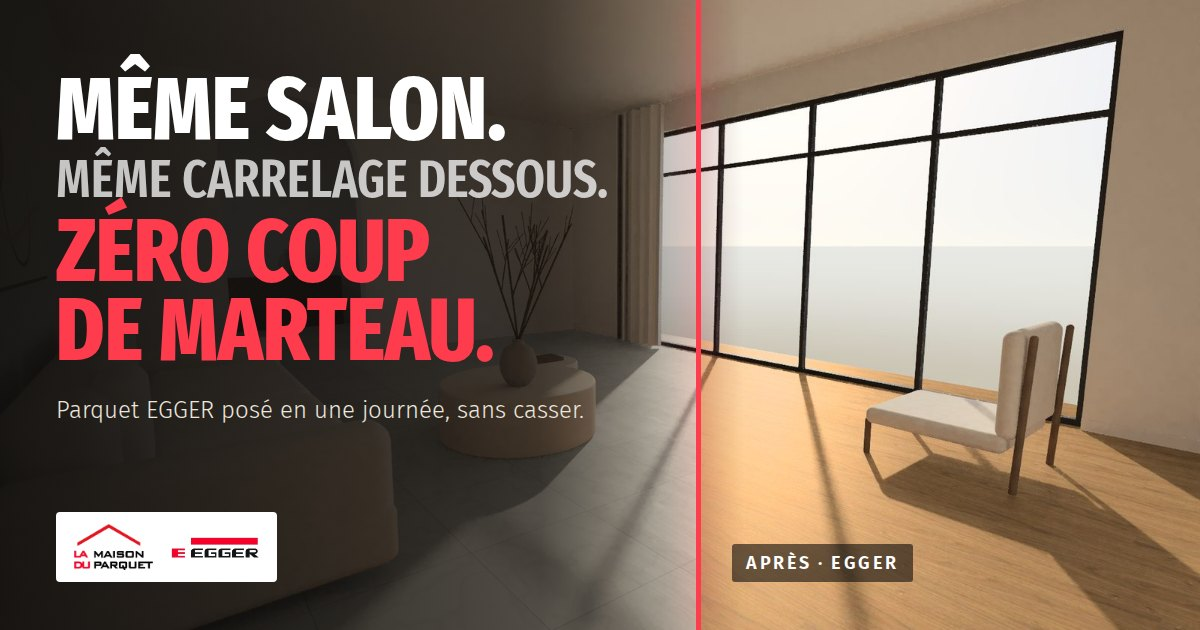
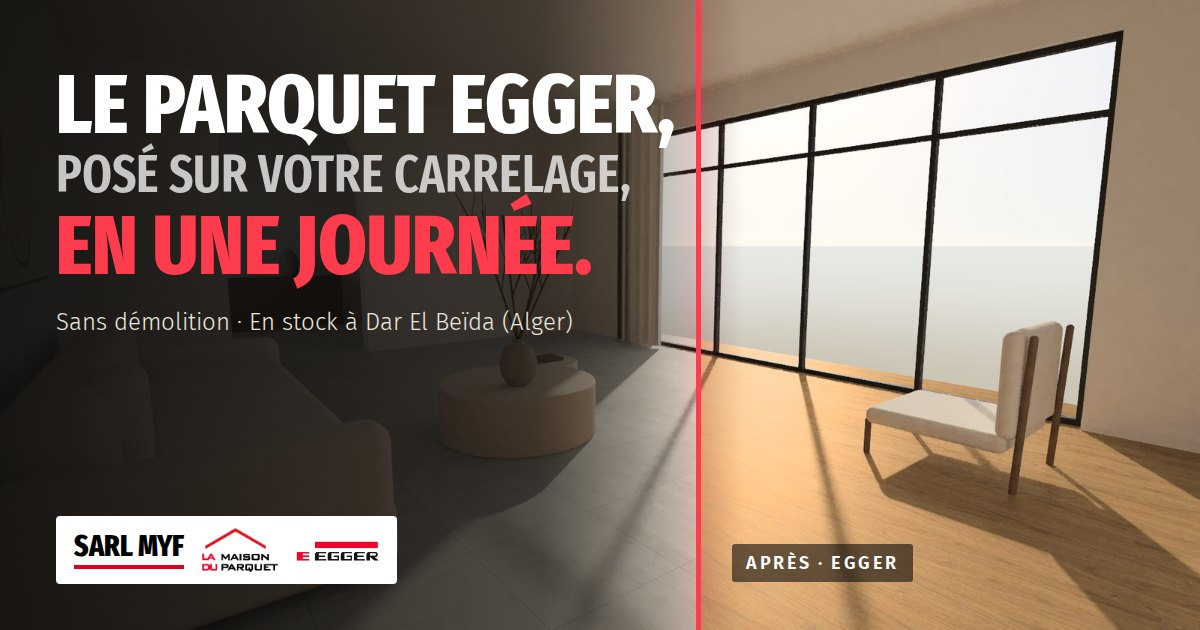
Site : nouveau titre d'accueil et anatomie 3D interactive d'une lame EGGER
- Titre « Le parquet EGGER, posé sur votre carrelage, en une journée. » sur 3 lignes,
  curseur avant/après au repos à 58 % pour ne plus passer sur le texte
- Section #lame : lame éclatée en 4 couches (CSS 3D, rotation au doigt/souris),
  mise en avant de chaque couche, choix du décor
- Image og régénérée, préchargement de l'image du hero

Claude-Session: https://claude.ai/code/session_01XoeDEVkNFXq4oExWHbkpus

Changed region(s): [[0.0308, 0.0905, 0.5858, 0.573], [0.0617, 0.8143, 0.3392, 0.9349], [0.0308, 0.6333, 0.4933, 0.6635]]

diff --git a/site/index.html b/site/index.html
@@ -12,12 +12,12 @@
 <meta property="og:type" content="website">
 <meta property="og:locale" content="fr_DZ">
 <meta property="og:site_name" content="La Maison du Parquet">
-<meta property="og:title" content="Carrelage froid ? Parquet EGGER posé en une journée, sans casser">
+<meta property="og:title" content="Le parquet EGGER, posé sur votre carrelage, en une journée">
 <meta property="og:description" content="Sols EGGER en stock à Dar El Beïda (Alger). Visite de 30 minutes, devis sur place, livraison partout en Algérie.">
 <meta property="og:image" content="https://www.lamaisonduparquet.dz/img/og.jpg">
 <meta property="og:image:width" content="1200">
 <meta property="og:image:height" content="630">
-<meta property="og:image:alt" content="Même salon, avant en carrelage et après en parquet EGGER">
+<meta property="og:image:alt" content="Un salon avant en carrelage et après en parquet EGGER">
 <meta property="og:url" content="https://www.lamaisonduparquet.dz/">
 <meta name="twitter:card" content="summary_large_image">
 <link rel="icon" href="img/icon-192.png" sizes="192x192">
@@ -27,6 +27,7 @@
 <link rel="preload" as="font" type="font/woff2" href="assets/fonts/fira-sans-300.woff2" crossorigin>
 <link rel="stylesheet" href="assets/css/fonts.css">
 <link rel="preload" as="image" href="img/ba-tile.webp" type="image/webp">
+<link rel="preload" as="image" href="img/ba-el2863.webp" type="image/webp">
 <link rel="stylesheet" href="assets/css/style.css">
 <script type="application/ld+json">{"@context":"https://schema.org","@graph":[{"@type":"HomeAndConstructionBusiness","@id":"https://www.lamaisonduparquet.dz/#business","name":"La Maison du Parquet","legalName":"SARL MYF","description":"SARL MYF · La Maison du Parquet. Sols stratifiés EGGER en stock, posés directement sur carrelage. Showroom à Dar El Beïda (Alger), sur rendez-vous.","url":"https://www.lamaisonduparquet.dz/","telephone":"+213549506857","image":"https://www.lamaisonduparquet.dz/img/og.jpg","logo":"https://www.lamaisonduparquet.dz/img/logo.png","hasMap":"https://www.google.com/maps/search/?api=1&query=La%20Maison%20du%20Parquet%20EGGER%20Dar%20El%20Beida","areaServed":{"@type":"Country","name":"Algérie"},"address":{"@type":"PostalAddress","addressLocality":"Dar El Beïda","addressRegion":"Alger","addressCountry":"DZ"},"contactPoint":[{"@type":"ContactPoint","telephone":"+213549506857","contactType":"customer service","availableLanguage":"French"},{"@type":"ContactPoint","telephone":"+213794709323","contactType":"customer service","availableLanguage":"French"}],"openingHoursSpecification":[{"@type":"OpeningHoursSpecification","dayOfWeek":["Saturday","Sunday","Monday","Tuesday","Wednesday","Thursday"],"opens":"08:00","closes":"16:00"}],"brand":{"@type":"Brand","name":"EGGER"}},{"@type":"ItemList","name":"Parquets stratifiés EGGER en stock","itemListElement":[{"@type":"ListItem","position":1,"item":{"@type":"Product","name":"Parquet stratifié EGGER Chêne Asgil miel EL2863","sku":"EL2863","brand":{"@type":"Brand","name":"EGGER"},"description":"8 mm, classe d'usage 32. Un chêne doré et chaleureux, le plus accueillant de la collection.","image":"https://www.lamaisonduparquet.dz/img/sw-el2863.jpg"}},{"@type":"ListItem","position":2,"item":{"@type":"Product","name":"Parquet stratifié EGGER Chêne Achensee EL1061","sku":"EL1061","brand":{"@type":"Brand","name":"EGGER"},"description":"7 mm, classe d'usage 31. Un chêne clair et naturel qui agrandit visuellement la pièce.","image":"https://www.lamaisonduparquet.dz/img/sw-el1061.jpg"}},{"@type":"ListItem","position":3,"item":{"@type":"Product","name":"Parquet stratifié EGGER Chêne du Nord naturel EL2970","sku":"EL2970","brand":{"@type":"Brand","name":"EGGER"},"description":"8 mm, classe d'usage 32. Des nœuds, des veines : le vrai caractère du bois.","image":"https://www.lamaisonduparquet.dz/img/sw-el2970.jpg"}},{"@type":"ListItem","position":4,"item":{"@type":"Product","name":"Parquet stratifié EGGER Chêne Melba beige EL2416","sku":"EL2416","brand":{"@type":"Brand","name":"EGGER"},"description":"8 mm, classe d'usage 32. Un beige doux et lumineux, le plus facile à marier. Version Aqua, résistante à l'eau.","image":"https://www.lamaisonduparquet.dz/img/sw-el2416.jpg"}},{"@type":"ListItem","position":5,"item":{"@type":"Product","name":"Parquet stratifié EGGER Chêne Bardolino EL1055","sku":"EL1055","brand":{"@type":"Brand","name":"EGGER"},"description":"8 mm, classe d'usage 32. Ni trop clair, ni trop foncé : le chêne intemporel.","image":"https://www.lamaisonduparquet.dz/img/sw-el1055.jpg"}}]},{"@type":"FAQPage","mainEntity":[{"@type":"Question","name":"Peut-on vraiment le poser sur du carrelage ?","acceptedAnswer":{"@type":"Answer","text":"Oui, si le carrelage est plan et bien fixé. Les lames se clipsent sur une sous-couche, sans colle et sans casser l'existant. Nous vérifions avec vous l'état de votre sol pendant la visite."}},{"@type":"Question","name":"Combien de temps dure la pose ?","acceptedAnswer":{"@type":"Answer","text":"Comptez une journée pour une pièce. Il n'y a pas de démolition ni de temps de séchage : la pièce est utilisable dès la fin de la pose."}},{"@type":"Question","name":"Pourquoi une visite sur rendez-vous ?","acceptedAnswer":{"@type":"Answer","text":"Pour qu'un conseiller soit disponible uniquement pour vous pendant 30 minutes : présentation des décors en stock, conseils selon vos pièces et devis établi sur place, sans attente."}},{"@type":"Question","name":"Comment obtenir un devis ?","acceptedAnswer":{"@type":"Answer","text":"Le devis est établi pendant la visite, au carton près : il dépend de vos pièces, du décor choisi, de la sous-couche et de la livraison. Utilisez le calculateur pour préparer votre métrage, ou apportez vos mesures."}},{"@type":"Question","name":"Où se trouve le showroom ?","acceptedAnswer":{"@type":"Answer","text":"À Dar El Beïda (Alger). Tapez « La Maison du Parquet EGGER Dar El Beïda » dans Google Maps ou utilisez le lien Itinéraire plus bas. Nous vous recevons du samedi au jeudi, de 8h00 à 16h00, sur rendez-vous."}},{"@type":"Question","name":"Et dans la cuisine ou la salle de bain ?","acceptedAnswer":{"@type":"Answer","text":"Dans une cuisine ouverte ou une entrée, choisissez le Chêne Melba beige (EL2416) en version Aqua : il résiste à l'eau pendant 24 heures. En salle de bain, où l'eau stagne, nous déconseillons le stratifié."}},{"@type":"Question","name":"Que signifient les classes 31 et 32 ?","acceptedAnswer":{"@type":"Answer","text":"C'est la résistance à l'usage selon la norme européenne. Classe 31 : usage domestique et commercial léger, parfait en chambre. Classe 32 : usage domestique intense et commercial normal (bureaux, boutiques), pour le salon, l'entrée ou la cuisine."}},{"@type":"Question","name":"Où sont fabriqués les sols EGGER ?","acceptedAnswer":{"@type":"Answer","text":"Dans les usines européennes du groupe EGGER. Les cartons en stock au showroom portent la mention Made in Germany. Les sols NatureSense sont composés en majorité de bois, sans PVC, et portent l'Écolabel européen."}},{"@type":"Question","name":"Avez-vous d'autres modèles EGGER ?","acceptedAnswer":{"@type":"Answer","text":"Oui, la gamme EGGER est large. Les décors présentés ici sont disponibles immédiatement, en stock. Venez découvrir le reste de la gamme au showroom, nous vous indiquons les disponibilités sur place."}},{"@type":"Question","name":"Les couleurs des images sont-elles fidèles ?","acceptedAnswer":{"@type":"Answer","text":"Nos rendus reprennent les visuels officiels EGGER. Mais la teinte d'un sol change avec la lumière de la pièce et le réglage de l'écran : venez voir les lames en vrai, à la lumière du jour, au showroom."}},{"@type":"Question","name":"Livrez-vous hors d'Alger ?","acceptedAnswer":{"@type":"Answer","text":"Oui, nous livrons partout en Algérie. Le délai et le coût dépendent de votre wilaya : ils figurent sur votre devis."}}]}]}</script>
 </head>
@@ -60,8 +61,8 @@
  <div class="hero-shade" aria-hidden="true"></div>
  <div class="hero-txt"><div class="wrap">
   <p class="eyebrow"><span class="dot-live" aria-hidden="true"></span>Représentant EGGER en Algérie · en stock à Dar El Beïda</p>
-  <h1 id="h1"><span class="l1">Même salon.</span><span class="l2">Même carrelage dessous.</span><span class="l3">Zéro coup de marteau.</span></h1>
-  <p class="sub">Le parquet EGGER se clipse directement sur votre carrelage. Une pièce posée en une journée, sans gravats, sans poussière. <b>Glissez le curseur pour voir.</b></p>
+  <h1 id="h1"><span class="l1">Le parquet EGGER,</span><span class="l2">posé sur votre carrelage,</span><span class="l3">en une journée.</span></h1>
+  <p class="sub">Les lames se clipsent sur une sous-couche, directement sur votre sol actuel&nbsp;: pas de démolition, pas de gravats, pas de poussière. <b>Glissez le curseur pour voir le résultat.</b></p>
   <div class="cta">
    <a class="btn b-red lg" href="#reserver"><svg viewBox="0 0 24 24" aria-hidden="true" fill="none" stroke="currentColor" stroke-width="1.8" stroke-linecap="round"><rect x="3.5" y="5" width="17" height="15.5" rx="2.5"/><path d="M3.5 10h17M8 3v4M16 3v4"/><path d="M9 14.8l2 2 4-4"/></svg>Réserver ma visite · 30 min</a>
    <a class="btn b-glass lg" href="#calcul">Calculer mes cartons</a>
@@ -123,6 +124,26 @@
    <figcaption><b>Un verre renversé ?<br>L'eau reste en surface.</b><span>Version Aqua (Chêne Melba beige EL2416, système Aqua CLIC it!) : 24 heures de résistance à l'eau. Pour la cuisine ouverte et l'entrée.</span><a class="btn b-red" href="#visualiseur" data-show-viz="cuisine:EL2416">Voir le Melba beige en cuisine</a></figcaption></figure>
   <figure class="fcard rv"><picture><source type="image/webp" srcset="img/egger-el1055-720.webp 720w, img/egger-el1055.webp 1080w" sizes="(max-width:860px) 100vw, 50vw"><img src="img/egger-el1055.jpg" alt="Salon avec parquet EGGER Chêne Bardolino EL1055" width="1080" height="1140" loading="lazy" decoding="async"></picture><span class="ill">Photo EGGER · Chêne Bardolino EL1055</span>
    <figcaption><b>Fini le carrelage<br>glacé au réveil.</b><span>Le parquet est plus chaud au toucher que le carrelage, et il reste compatible avec le chauffage au sol.</span><a class="btn b-red" href="#reserver">Le sentir au showroom</a></figcaption></figure>
+ </div>
+</div></section>
+
+<!-- ============ ANATOMIE 3D ============ -->
+<section class="anat" id="lame" aria-labelledby="anatH"><div class="wrap anat-grid">
+ <div class="anat-txt">
+  <p class="lab">Anatomie d'une lame EGGER</p>
+  <h2 id="anatH">Quatre couches, <em>un seul clic.</em></h2>
+  <p class="lede">Faites pivoter la lame, survolez chaque couche : voici ce qui se trouve sous vos pieds avec un sol stratifié EGGER.</p>
+  <ol class="layers" id="layers">
+   <li><button type="button" data-l="1"><b>Couche de protection</b><span>Surface résistante à l'usure, aux rayures et aux UV. Classe d'usage 31 ou 32 selon le décor.</span></button></li>
+   <li><button type="button" data-l="2"><b>Décor EGGER</b><span>Le dessin du chêne, avec une structure de surface qui suit les pores du bois.</span></button></li>
+   <li><button type="button" data-l="3"><b>Panneau HDF+</b><span>Support haute densité de 7 ou 8 mm, usiné pour le système d'assemblage CLIC it!.</span></button></li>
+   <li><button type="button" data-l="4"><b>Contre-balancement</b><span>Couche de stabilisation sous la lame, qui l'empêche de se déformer.</span></button></li>
+  </ol>
+  <div class="anat-dec" id="anatDec" role="radiogroup" aria-label="Décor de la lame en 3D"></div>
+ </div>
+ <div class="plank3d" id="plank3d" aria-hidden="true">
+  <div class="scene" id="scene"><div class="stack" id="stack" data-dec="el2863"><div class="ly ly4"><i class="t"></i><i class="f"></i><i class="s"></i></div><div class="ly ly3"><i class="t"></i><i class="f"></i><i class="s"></i></div><div class="ly ly2"><i class="t"></i><i class="f"></i><i class="s"></i></div><div class="ly ly1"><i class="t"></i><i class="f"></i><i class="s"></i></div></div></div>
+  <p class="anat-hint">Glissez pour faire pivoter</p>
  </div>
 </div></section>
 

diff --git a/site/assets/css/style.css b/site/assets/css/style.css
@@ -82,13 +82,14 @@ s{text-decoration-color:var(--red);text-decoration-thickness:.09em}
 .ba .knob svg{width:24px;height:24px}
 .ba .tag{position:absolute;top:18px;font-size:.74rem;letter-spacing:.14em;text-transform:uppercase;font-weight:600;color:#fff;background:rgba(15,14,12,.55);backdrop-filter:blur(6px);padding:7px 12px;border-radius:3px;z-index:2}
 .ba .t-l{left:18px}.ba .t-r{right:18px}
-.hero-ba{--pos:45%;height:clamp(560px,86vh,880px)}
+.hero-ba{--pos:58%;height:clamp(560px,86vh,880px)}
 .hero-shade{position:absolute;inset:0;background:linear-gradient(90deg,rgba(12,11,10,.82) 0%,rgba(12,11,10,.55) 38%,rgba(12,11,10,0) 64%),linear-gradient(0deg,rgba(12,11,10,.55),rgba(12,11,10,0) 45%);pointer-events:none;z-index:1}
 .hero-txt{position:absolute;inset:auto 0 0 0;z-index:4;pointer-events:none;padding-block:0 clamp(28px,5vw,56px)}
 .hero-txt .cta,.hero-txt .hero-dec{pointer-events:auto}
 .eyebrow{display:inline-flex;align-items:center;gap:10px;font-size:.78rem;letter-spacing:.16em;text-transform:uppercase;font-weight:500;color:#f1ece5;margin:0 0 18px}
 .dot-live{flex:none;width:9px;height:9px;border-radius:50%;background:#2fbf71;box-shadow:0 0 0 5px rgba(47,191,113,.22)}
-.hero h1{font-family:var(--cond);font-weight:800;text-transform:uppercase;letter-spacing:-.005em;line-height:.9;font-size:clamp(2.8rem,6vw,5.8rem);max-width:13ch}
+.hero h1{font-family:var(--cond);font-weight:800;text-transform:uppercase;letter-spacing:-.005em;line-height:.9;font-size:clamp(2.6rem,5.2vw,5.4rem);max-width:none}
+@media (min-width:861px){.hero h1 span{white-space:nowrap}}
 .hero h1 span{display:block}
 .hero h1 .l2{font-weight:600;color:rgba(255,255,255,.72);font-size:.62em;line-height:1.05;margin-block:.12em .06em;letter-spacing:.005em}
 .hero h1 .l3{color:var(--red-lt)}
@@ -467,3 +468,63 @@ footer .wrap{display:flex;justify-content:space-between;align-items:center;gap:2
 @media (max-width:600px){.f-brand{gap:12px}.f-brand .myf{font-size:1.7rem}.f-brand img[width="799"]{height:40px}.f-brand img[width="321"]{height:17px}}
 .calc>*,.calc-box>*,.cf-row{min-width:0}.calc-box select{min-width:0;text-overflow:ellipsis}
 .vs-img img{object-position:50% 80%}.fcard img{object-position:50% 70%}
+
+/* ===== Anatomie d'une lame : rendu 3D en CSS pur (aucune librairie) =====
+   Repère : la lame occupe x∈[0,w], y∈[0,d], z∈[0,t] ; chaque couche est un pavé (dessus, face avant, chant). */
+.anat{padding-block:clamp(72px,10vw,130px);background:var(--paper);border-block:1px solid var(--line);overflow:hidden}
+.anat-grid{display:grid;grid-template-columns:minmax(0,.9fr) minmax(0,1.1fr);gap:clamp(28px,5vw,72px);align-items:center}
+.anat-grid>*{min-width:0}
+.anat .lede{margin-top:16px}
+.layers{list-style:none;counter-reset:ly;margin:28px 0 0;padding:0;display:grid;gap:2px;border-top:1px solid var(--line)}
+.layers li{counter-increment:ly}
+.layers button{width:100%;text-align:start;display:grid;grid-template-columns:34px 1fr;gap:2px 12px;padding:14px 10px 14px 0;background:transparent;border:0;border-bottom:1px solid var(--line);cursor:pointer;color:var(--ink);transition:background .2s}
+.layers button:before{content:counter(ly,decimal-leading-zero);grid-row:span 2;font-family:var(--cond);font-weight:800;font-size:1.3rem;color:var(--red);line-height:1.2}
+.layers b{font-weight:500}
+.layers span{color:var(--mut);font-size:.9rem;line-height:1.5}
+.layers button:hover,.layers button.on{background:var(--bg)}
+.anat-dec{display:flex;flex-wrap:wrap;gap:8px;margin-top:22px}
+.anat-dec button{width:38px;height:38px;border-radius:50%;border:2px solid var(--bg);box-shadow:0 0 0 1px var(--line);background-size:cover;background-position:center;cursor:pointer;padding:0}
+.anat-dec button[aria-checked="true"]{box-shadow:0 0 0 2px var(--red)}
+
+.plank3d{position:relative;height:clamp(340px,42vw,520px);display:grid;place-items:center;perspective:1600px;touch-action:pan-y;cursor:grab;user-select:none;-webkit-user-select:none}
+.plank3d:active{cursor:grabbing}
+.scene{--rx:58deg;--rz:-32deg;transform-style:preserve-3d;transform:rotateX(var(--rx)) rotateZ(var(--rz));transition:transform .6s cubic-bezier(.2,.8,.2,1)}
+.plank3d.drag .scene{transition:none}
+.stack{--w:440px;--d:150px;--gap:0px;position:relative;width:var(--w);height:var(--d);transform-style:preserve-3d;transform:translate3d(calc(var(--w) * -.04),0,-60px)}
+.plank3d.open .stack{--gap:52px}
+.ly{position:absolute;inset:0;transform-style:preserve-3d;transition:transform 1.1s cubic-bezier(.2,.8,.2,1),opacity .35s}
+.ly i{position:absolute;display:block}
+.ly .t{inset:0;transform:translateZ(var(--t))}
+.ly .f{left:0;top:var(--d);width:var(--w);height:var(--t);transform-origin:top;transform:rotateX(90deg)}
+.ly .s{left:var(--w);top:0;width:var(--t);height:var(--d);transform-origin:left;transform:rotateY(-90deg)}
+/* empilement : z de base (somme des épaisseurs) + écart d'éclatement */
+.ly4{--t:6px;transform:translateZ(0)}
+.ly3{--t:40px;transform:translateZ(calc(6px + var(--gap)))}
+.ly2{--t:4px;transform:translateZ(calc(46px + var(--gap) * 2))}
+.ly1{--t:4px;transform:translateZ(calc(50px + var(--gap) * 3))}
+/* 4 · contre-balancement */
+.ly4 .t{background:#3b342d}.ly4 .f{background:#2a241f}.ly4 .s{background:#211c18}
+/* 3 · HDF+ : fibres compressées, profil CLIC sur le chant */
+.ly3 .t{background:#b48a5c repeating-linear-gradient(90deg,rgba(0,0,0,.05) 0 2px,transparent 2px 7px)}
+.ly3 .f{background:#9a7247 repeating-linear-gradient(0deg,rgba(255,255,255,.06) 0 1px,transparent 1px 4px)}
+.ly3 .s{background:#83603b;clip-path:polygon(0 0,100% 0,100% 38%,62% 38%,62% 62%,100% 62%,100% 100%,0 100%)}
+/* 2 · décor (texture réelle EGGER) */
+.ly2 .t{background-size:cover;background-position:center}
+.stack[data-dec="el2863"] .ly2 .t{background-image:url(../../img/sw-el2863.webp)}
+.stack[data-dec="el1061"] .ly2 .t{background-image:url(../../img/sw-el1061.webp)}
+.stack[data-dec="el2970"] .ly2 .t{background-image:url(../../img/sw-el2970.webp)}
+.stack[data-dec="el2416"] .ly2 .t{background-image:url(../../img/sw-el2416.webp)}
+.stack[data-dec="el1055"] .ly2 .t{background-image:url(../../img/sw-el1055.webp)}
+.ly2 .f{background:#7d5734}.ly2 .s{background:#6b4a2c}
+/* 1 · protection transparente avec reflet */
+.ly1 .t{background:linear-gradient(115deg,rgba(255,255,255,.08) 20%,rgba(255,255,255,.55) 42%,rgba(255,255,255,.08) 58%);box-shadow:inset 0 0 0 1px rgba(255,255,255,.7)}
+.ly1 .f,.ly1 .s{background:rgba(255,255,255,.6)}
+/* ombre portée au sol */
+.stack:before{content:"";position:absolute;inset:-6% -4%;background:radial-gradient(closest-side,rgba(20,15,10,.35),transparent);transform:translateZ(-2px);filter:blur(10px)}
+/* mise en avant d'une couche */
+.stack[data-hl] .ly{opacity:.28}
+.stack[data-hl="1"] .ly1,.stack[data-hl="2"] .ly2,.stack[data-hl="3"] .ly3,.stack[data-hl="4"] .ly4{opacity:1}
+.anat-hint{position:absolute;bottom:0;left:50%;transform:translateX(-50%);margin:0;font-size:.72rem;letter-spacing:.14em;text-transform:uppercase;color:var(--mut);white-space:nowrap}
+@media (max-width:900px){.anat-grid{grid-template-columns:1fr}.plank3d{order:-1;height:340px}.stack{--w:300px;--d:104px}}
+@media (max-width:400px){.plank3d{height:300px}.stack{--w:250px;--d:88px}}
+@media (prefers-reduced-motion:reduce){.ly,.scene{transition:none}}

diff --git a/site/assets/js/ui/plank.js b/site/assets/js/ui/plank.js
@@ -1,0 +1,54 @@
+/* Anatomie 3D d'une lame : éclatement au défilement, rotation au doigt / à la souris / au clavier,
+   mise en avant d'une couche, choix du décor. Tout passe par des variables CSS (compatible CSP). */
+import { $, $$, html, img, CALM, track } from "./dom.js";
+import { short } from "../core/format.js";
+
+const clamp = (v, a, b) => Math.max(a, Math.min(b, v));
+
+export function initPlank({ DECORS }) {
+  const box = $("#plank3d"), scene = $("#scene"), stack = $("#stack");
+  if (!box) return;
+  const rot = { x: 58, z: -32 };
+  const apply = () => { scene.style.setProperty("--rx", rot.x + "deg"); scene.style.setProperty("--rz", rot.z + "deg"); };
+
+  // éclatement quand la lame entre à l'écran (immédiat si animations réduites)
+  if (CALM || !("IntersectionObserver" in window)) box.classList.add("open");
+  else new IntersectionObserver((es, o) => es.forEach(e => { if (e.isIntersecting) { box.classList.add("open"); o.disconnect(); } }), { threshold: .35 }).observe(box);
+
+  // rotation : glisser (souris ou doigt)
+  let drag = null;
+  box.addEventListener("pointerdown", e => { drag = { x: e.clientX, y: e.clientY, rx: rot.x, rz: rot.z }; box.classList.add("drag"); box.setPointerCapture(e.pointerId); });
+  box.addEventListener("pointermove", e => {
+    if (drag) {
+      rot.z = clamp(drag.rz + (e.clientX - drag.x) * .35, -80, 20);
+      rot.x = clamp(drag.rx - (e.clientY - drag.y) * .25, 30, 75);
+      apply();
+    } else if (!CALM && e.pointerType === "mouse") {
+      // légère parallaxe au survol
+      const r = box.getBoundingClientRect(), dx = (e.clientX - r.left) / r.width - .5, dy = (e.clientY - r.top) / r.height - .5;
+      scene.style.setProperty("--rz", (rot.z + dx * 10) + "deg"); scene.style.setProperty("--rx", (rot.x - dy * 6) + "deg");
+    }
+  });
+  const end = () => { if (drag) track("ViewContent", { content_name: "lame-3d" }); drag = null; box.classList.remove("drag"); };
+  box.addEventListener("pointerup", end); box.addEventListener("pointercancel", end);
+  box.addEventListener("pointerleave", () => { if (!drag) apply(); });
+
+  // couches : survol, focus ou clic mettent la couche en avant
+  const setHl = n => { n ? stack.setAttribute("data-hl", n) : stack.removeAttribute("data-hl"); $$("#layers button").forEach(b => b.classList.toggle("on", b.dataset.l === n)); };
+  $$("#layers button").forEach(b => {
+    b.addEventListener("mouseenter", () => setHl(b.dataset.l));
+    b.addEventListener("focus", () => setHl(b.dataset.l));
+    b.addEventListener("click", () => setHl(stack.getAttribute("data-hl") === b.dataset.l ? null : b.dataset.l));
+  });
+  $("#layers").addEventListener("mouseleave", () => setHl(null));
+  $("#layers").addEventListener("focusout", e => { if (!$("#layers").contains(e.relatedTarget)) setHl(null); });
+
+  // décor de la couche 2
+  html($("#anatDec"), DECORS.map((d, i) => `<button type="button" role="radio" data-r="${d.ref.toLowerCase()}" aria-checked="${i === 0}" aria-label="${short(d.n)} (${d.ref})" title="${d.n}" data-bg="${img("sw-" + d.ref.toLowerCase())}"></button>`).join(""));
+  $("#anatDec").addEventListener("click", e => {
+    const b = e.target.closest("button"); if (!b) return;
+    stack.dataset.dec = b.dataset.r;
+    $$("#anatDec button").forEach(x => x.setAttribute("aria-checked", x === b));
+    setHl("2");
+  });
+}

diff --git a/site/assets/js/ui/hero.js b/site/assets/js/ui/hero.js
@@ -26,9 +26,9 @@ export function makeBA(root, knob) {
   return set;
 }
 
-/** Le carrelage disparaît sous les yeux du visiteur : 100 % → 0 % puis retour à 45 %. */
+/** Le carrelage disparaît sous les yeux du visiteur : 100 % → 0 % puis retour à 58 % (à droite du titre). */
 function sweep(set) {
-  const seq = [[100, 0, 1900], [0, 45, 900]];
+  const seq = [[100, 0, 1900], [0, 58, 900]];
   let i = 0, t0 = null;
   set(100);
   const ease = k => k < .5 ? 4 * k * k * k : 1 - Math.pow(-2 * k + 2, 3) / 2;
@@ -57,7 +57,7 @@ export function initHero({ DECORS, CONFIG }) {
   render();
   // préchargement discret des autres décors, une fois la page affichée
   (window.requestIdleCallback || setTimeout)(() => DECORS.forEach(x => { new Image().src = img("ba-" + x.ref.toLowerCase()); }));
-  if (CALM) set(45); else after.complete ? sweep(set) : after.addEventListener("load", () => sweep(set), { once: true });
+  if (CALM) set(58); else after.complete ? sweep(set) : after.addEventListener("load", () => sweep(set), { once: true });
 
   // prochain créneau réel, calculé à partir des horaires du showroom
   const n = nextSlot(CONFIG), pill = $("#nextSlot");

diff --git a/site/assets/js/main.js b/site/assets/js/main.js
@@ -15,9 +15,10 @@ import { initCollection } from "./ui/collection.js";
 import { initBooking } from "./ui/booking.js";
 import { initContact } from "./ui/contact.js";
 import { initFx } from "./ui/fx.js";
+import { initPlank } from "./ui/plank.js";
 
 const ctx = { CONFIG, DECORS, ROOMS };
-const modules = [initHero, initViz, initQuiz, initCalc, initCollection, initBooking, initContact, initFx];
+const modules = [initHero, initViz, initPlank, initQuiz, initCalc, initCollection, initBooking, initContact, initFx];
 
 // FAQ (texte de confiance issu de data.js)
 html($("#faqList"), FAQ.map(([q, a]) => `<details class="rv"><summary>${q}</summary><p>${a}</p></details>`).join(""));
